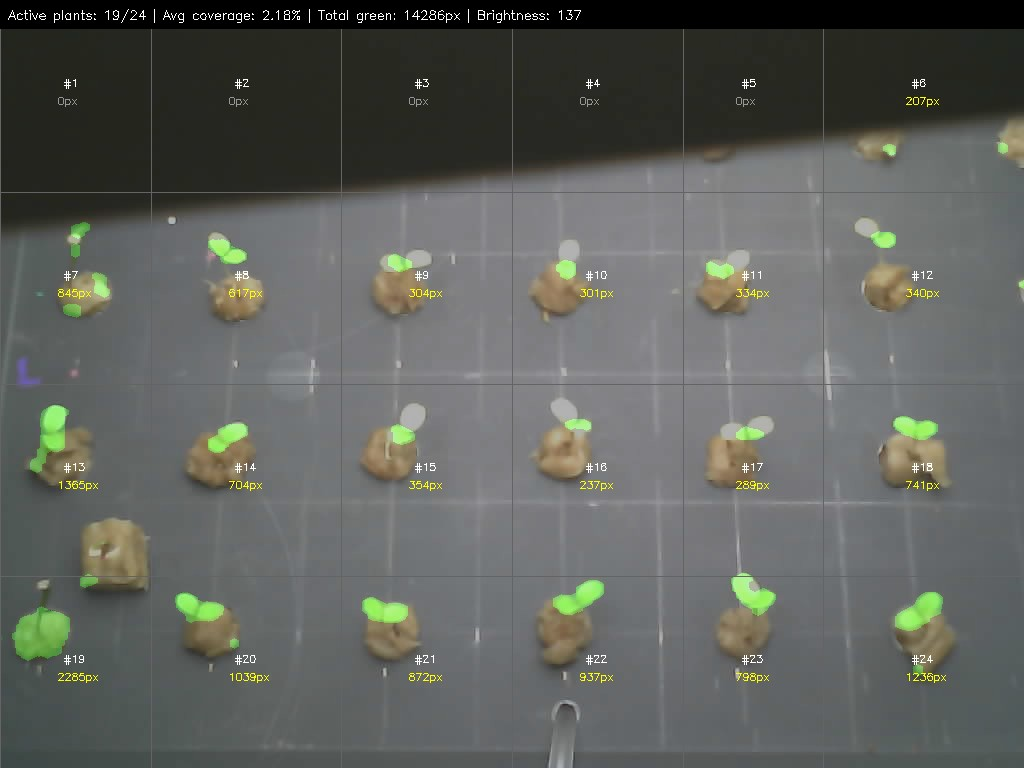
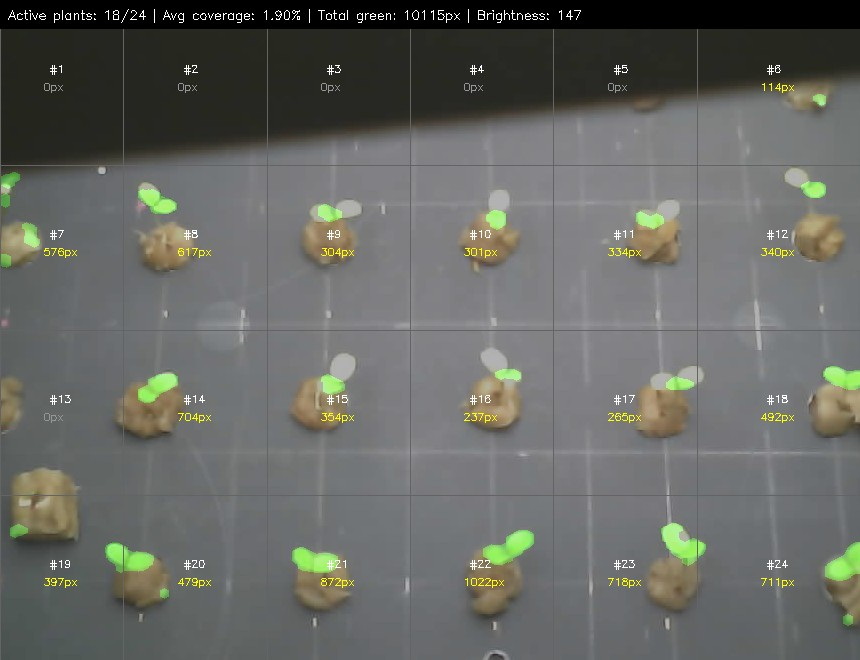
Add crop region to exclude tray edges, tighten HSV thresholds

diff --git a/analyze.py b/analyze.py
@@ -49,10 +49,14 @@ MORPH_ITER = 2
 # Margin inside each cell to avoid counting edge pixels (% of cell size)
 CELL_MARGIN_PCT = 5
 
+# Crop region to exclude tray edges: (x, y, w, h) or None
+# Applied before grid — grid boundaries are relative to cropped image
+CROP_REGION = (70, 50, 860, 660)
+
 # Custom column boundaries (x positions). Set to None for even spacing.
 # Adjust these to align grid lines with actual plant columns.
 # 7 values for 6 columns: [left_edge, col1|col2, col2|col3, ..., right_edge]
-CUSTOM_COL_BOUNDS = [0, 151, 341, 512, 683, 823, 1024]
+CUSTOM_COL_BOUNDS = [0, 123, 267, 410, 553, 697, 860]
 
 # Custom row boundaries. Set to None for even spacing.
 CUSTOM_ROW_BOUNDS = None
@@ -228,6 +232,12 @@ def analyze_image(filepath):
 
     ts = parse_timestamp(filepath)
     ts_str = ts.strftime("%Y-%m-%d_%H-%M-%S")
+
+    # Crop to tray interior
+    if CROP_REGION:
+        cx, cy, cw, ch = CROP_REGION
+        img = img[cy:cy+ch, cx:cx+cw]
+
     h, w = img.shape[:2]
 
     # Quality check
@@ -346,8 +356,12 @@ def cmd_tune(image_path):
         print(f"ERROR: can't load {image_path}")
         sys.exit(1)
 
+    if CROP_REGION:
+        cx, cy, cw, ch = CROP_REGION
+        img = img[cy:cy+ch, cx:cx+cw]
+
     h, w = img.shape[:2]
-    print(f"Tuning on: {image_path} ({w}x{h})")
+    print(f"Tuning on: {image_path} ({w}x{h}, cropped={CROP_REGION is not None})")
 
     hsv = cv2.cvtColor(img, cv2.COLOR_BGR2HSV)
 
